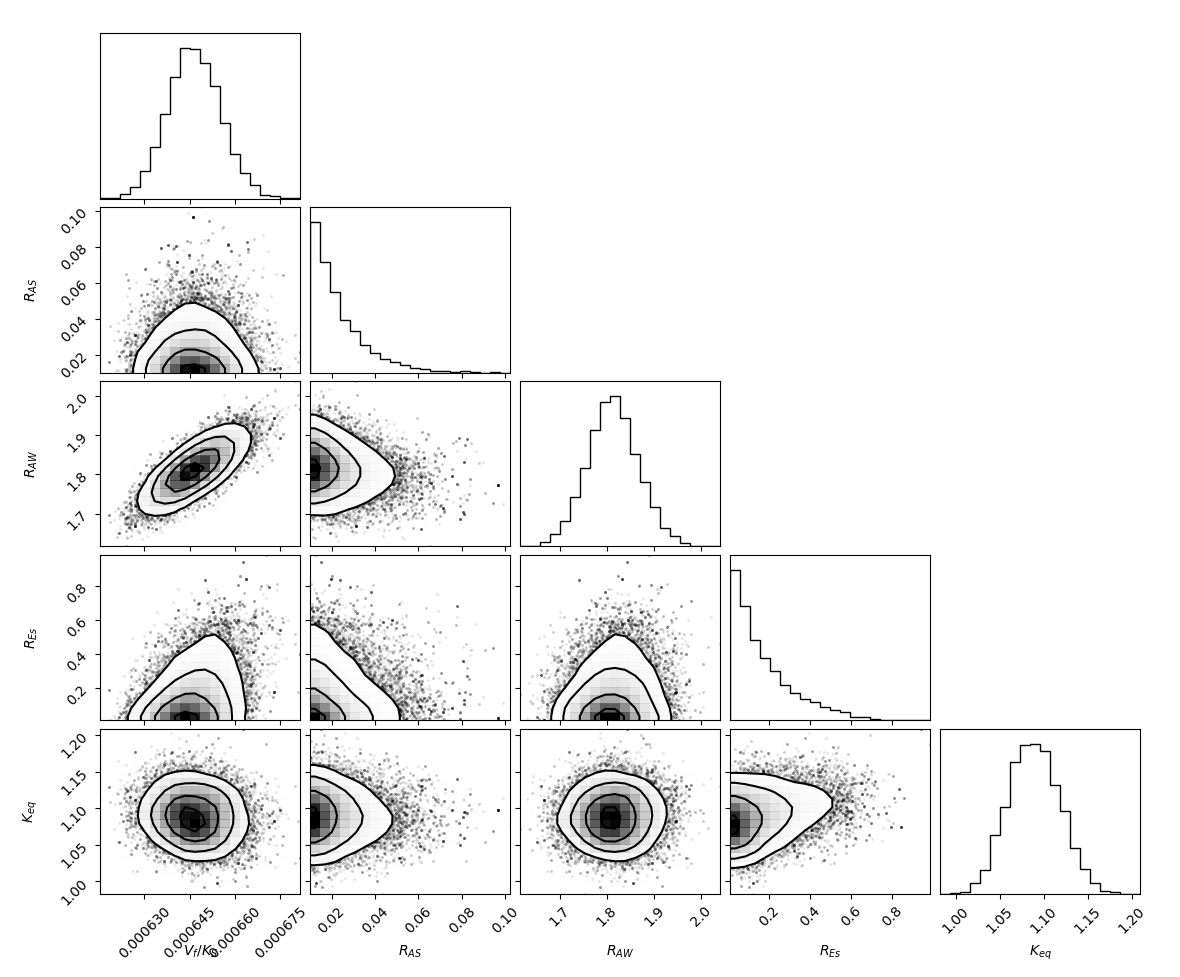
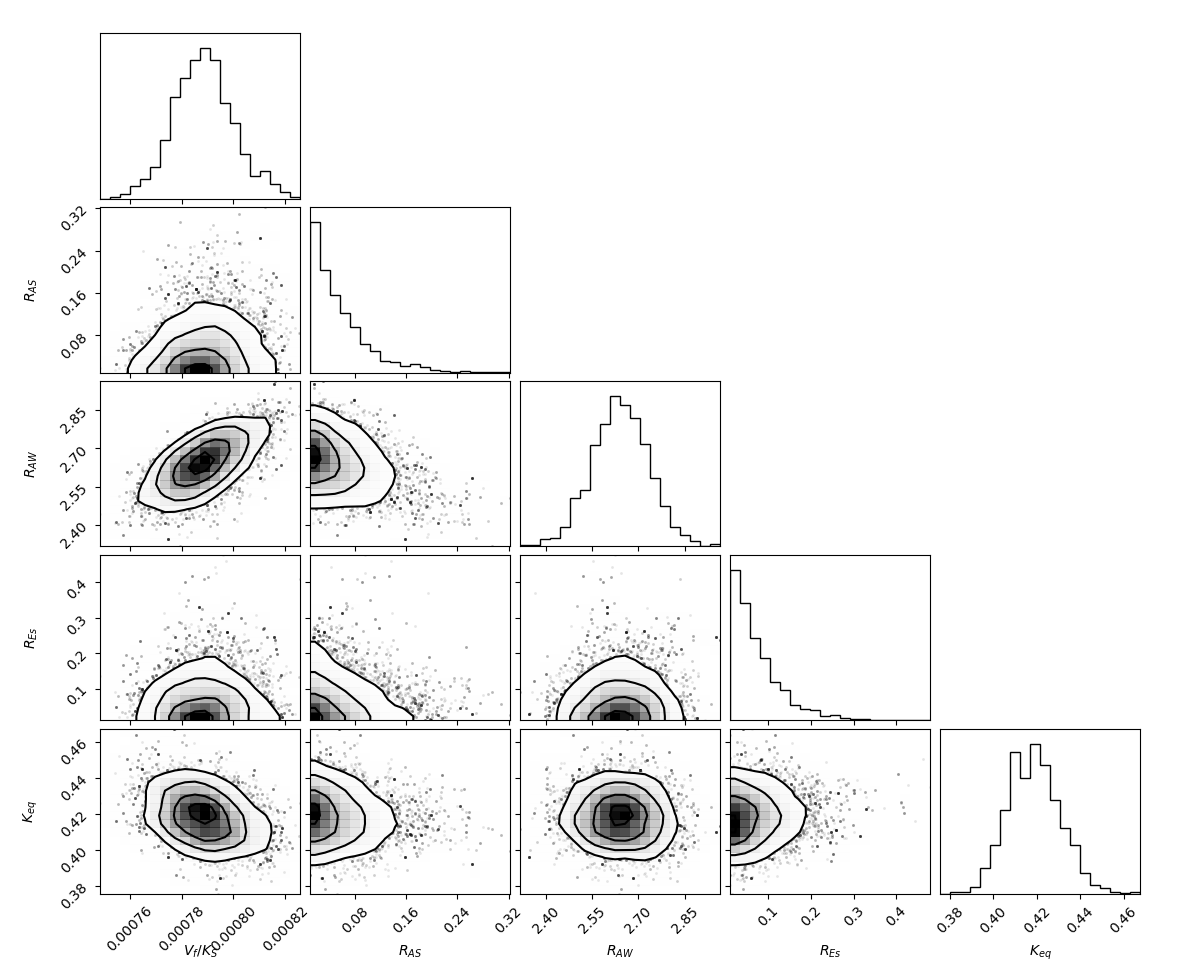
finish calibration of the intrinsic kinetics

diff --git a/tutorials/enzyme_kinetics/calibrate_intrinsic_kinetics.py b/tutorials/enzyme_kinetics/calibrate_intrinsic_kinetics.py
@@ -84,34 +84,52 @@ if __name__ == '__main__':
     # Calibated parameters and bounds
     pars = ['Vf_Ks', 'R_AS', 'R_AW', 'R_Es', 'K_eq']
     labels = ['$V_f/K_S$','$R_{AS}$','$R_{AW}$','$R_{Es}$', '$K_{eq}$']
-    bounds = [(1e-5,1e-2), (1e-2,10), (1e-2,10), (1e-2,10), (1e-2,2)]
+    bounds = [(1e-5,1e-2), (1e-2,1000), (1e-2,1000), (1e-2,1000), (1e-2,2)]
     # Setup objective function (no priors --> uniform priors based on bounds)
     objective_function = log_posterior_probability(model,pars,bounds,data,states,log_likelihood_fnc,log_likelihood_fnc_args,initial_states=initial_states,labels=labels)                               
     # Settings
     processes = int(os.getenv('SLURM_CPUS_ON_NODE', mp.cpu_count()/2))
-    n_pso = 30
-    multiplier_pso = 10   
+    n_pso = 50
+    multiplier_pso = 20
     # PSO
     theta = pso.optimize(objective_function, swarmsize=multiplier_pso*processes, max_iter=n_pso, processes=processes, debug=True)[0]    
     # Nelder-mead
     step = len(theta)*[0.05,]
     theta = nelder_mead.optimize(objective_function, theta, step, processes=processes, max_iter=n_pso)[0]
+    # Loop over datasets
+    for i,df in enumerate(data):
+        model.parameters.update({'Vf_Ks': theta[0], 'R_AS': theta[1], 'R_AW': theta[2], 'R_Es': theta[3], 'K_eq': theta[4]})
+        # Update initial condition
+        model.initial_states.update(initial_states[i])
+        # Simulate model
+        out = model.sim(3000)
+        # Visualize
+        fig,ax=plt.subplots(figsize=(12,4))
+        ax.scatter(df.index, df.values, color='black', alpha=0.6, linestyle='None', facecolors='none', s=60, linewidth=2)
+        ax.plot(out['time'], out['S'], color='black')
+        ax.plot(out['time'], out['Es'], color='red')
+        ax.legend(['data', 'D-glucose', 'Glucose laurate'])
+        ax.grid(False)
+        ax.set_ylabel('species concentration (mM)')
+        ax.set_xlabel('time (min)')
+        plt.tight_layout()
+        plt.show()
+        plt.close()
 
     ##########
     ## MCMC ##
     ##########
 
     # Variables
-    n_mcmc = 200
-    multiplier_mcmc = 18
+    n_mcmc = 500
     print_n = 50
-    discard = 50
+    discard = 100
     samples_path='sampler_output/'
     fig_path='sampler_output/'
     identifier = 'username'
     run_date = str(datetime.date.today())
     # Perturbate previously obtained estimate
-    ndim, nwalkers, pos = perturbate_theta(theta, pert=0.10*np.ones(len(theta)), multiplier=multiplier_mcmc, bounds=bounds)
+    ndim, nwalkers, pos = perturbate_theta(theta, pert=[0.10, 0.10, 0.10, 0.10, 0.10], multiplier=5, bounds=bounds)
     # Write some usefull settings to a .json
     settings={'start_calibration': 0, 'end_calibration': 3000,
               'n_chains': nwalkers, 'starting_estimate': list(theta), 'labels': labels}
@@ -160,7 +178,6 @@ if __name__ == '__main__':
         for i in range(N):
             ax.plot(out['time'], out['S'].isel(draws=i), color='black', alpha=0.03, linewidth=0.2)
             ax.plot(out['time'], out['Es'].isel(draws=i), color='red', alpha=0.03, linewidth=0.2)
-        #ax.errorbar(df.index, df.values, yerr=log_likelihood_fnc_args[i], fmt='x', color='black')
         ax.legend(['data', 'D-glucose', 'Glucose laurate'])
         ax.grid(False)
         ax.set_ylabel('species concentration (mM)')

diff --git a/tutorials/enzyme_kinetics/models.py b/tutorials/enzyme_kinetics/models.py
@@ -60,6 +60,7 @@ class PPBB_model(ODEModel):
     parameter_names = ['c_enzyme', 'Vf_Ks', 'R_AS', 'R_AW', 'R_Es', 'K_eq']
 
     @staticmethod
+    @njit
     def integrate(t, S, A, Es, W, c_enzyme, Vf_Ks, R_AS, R_AW, R_Es, K_eq):
 
         # Calculate rate

diff --git a/docs/enzyme_kinetics.md b/docs/enzyme_kinetics.md
@@ -8,23 +8,23 @@ Sugar fatty acid esters (SFAEs) are nonionic surfactants which play an important
 
 ![reaction](/_static/figs/enzyme_kinetics/reaction.png)
 
-The goal of this tutorial is to demonstrate how pySODM can be used to build a virtual prototype of a continuous flow reactor reactor packed with enzyme beads. First, an enzyme kinetic model is calibrated to time course data obtained in batch experiments. The calibrated kinetics can then be used to make predictions on how the yields in our continuous-flow reactor vary when the flow rate is varied. Further, we can asses what happens to the reaction yields if we set up a two-stage reactor where water is removed between the stages. I will attempt to provide a brief introduction to each of the models used in this tutorial. However, I shall cut several corners for the sake of shortening this demo (my master's thesis is over 60 pages long).
+The goal of this tutorial is to demonstrate how pySODM can be used to build a virtual prototype of a continuous flow reactor reactor packed with enzyme beads. First, an enzyme kinetic model is calibrated to time course data obtained in batch experiments. The calibrated kinetics can then be used to make predictions on how the yields in our continuous-flow reactor vary with the flow rate. Further, we can asses what happens to the reaction yields if we set up a two-stage reactor where water is removed between the stages. I will attempt to provide a brief introduction to each of the models used in this tutorial. However, I shall cut several corners for the sake of shortening this demo (my master's thesis is over 60 pages long).
 
 In this tutorial pySODM is used to:
 1. Build an ODE model to describe the reaction course in a batch experiment.
-2. Calibrate the ODE model to timecourse data from eight experiments. Each experiment has a different intial condition, which must be provided to the log posterior probability function.
-3. Demonstrate how a 1D packed-bed reactor (PDE) can be implemented in pySODM by using the method-of-lines.
+2. Calibrate the ODE model to timecourse data from eight experiments, performed with different initial concentrations of D-Glucose, Lauric acid and water. Each experiment thus has a different intial condition, which must be provided to the log posterior probability function.
+3. Demonstrate how a 1D packed-bed reactor (PDE system) can be implemented in pySODM by using the method-of-lines.
 4. Propagate the posterior distributions of the kinetic parameters through the packed-bed reactor model and asses what happens if we change the flow rate or remove water.
 
 ## Calibration of Intrinsic kinetics (ODE model)
 
-Multiple batch experiments were performed. For each experiment a supersaturated solution of D-glucose and Lauric acid in t-Butanol had to be prepared. First, as much water as possible had to be removed from the t-Butanol by means of molecular sieves. Then, because of its low solubility in t-Butanol, a supersaturated solution of D-glucose had to be prepared by reflux boiling overnight. Next, the Lauric acid was added and the mixture was transferred to a 50 mL flask suspended in an oil bath kept at 50 degrees Celcius. To start the reaction, 10 g/L of beads containing the enzyme were added to the mixture. The mixture was stirred with a magnetic stirrer throughout the reaction to avoid mass transfer limitations during the reaction course. Samples were withdrawn at regular intervals and analyzed for Glucose Laurate Ester using an HPLC-MS.
+Multiple batch experiments were performed. For each experiment a supersaturated solution of D-glucose and Lauric acid in t-Butanol had to be prepared. First, as much water as possible had to be removed from the t-Butanol by means of 0.3 nm molecular sieves. Then, because of its low solubility in t-Butanol, a supersaturated solution of D-glucose was prepared by reflux boiling overnight. The maximum attainable concentration of D-Glucose in t-Butanol at 50 Degrees Celcius is between 40 mM and 45 mM. Next, Lauric acid was added and the mixture was transferred to a 50 mL flask suspended in an oil bath kept at 50 degrees Celcius. To start the reaction, 10 g/L of beads containing the enzyme were added to the mixture. The mixture was stirred with a magnetic stirrer throughout the reaction to avoid mass transfer limitations during the reaction course. Samples were withdrawn at regular intervals and analyzed for Glucose Laurate Ester using an HPLC-MS.
 
 The experiments performed could be subdivided into two types:
 1. Initial rate experiments: The reaction course is only followed during the first minutes when very little product are formed. 
 2. Full time-course experiments. In this experiment, samples are withdrawn every few hours until the reaction mixture equillibrates.
 
-Typically, the parameters of the *forward* reaction are first calibrated to the initial rate experiment data. During my master's thesis, model selection was performed as well using the initial rate experiment data. The parameters of the *backward* reaction were then calibrated to the full time-course experiments. For the sake of brevity, I shall glance over this two-step calibration and model selection. We will simply calibrate the following model,
+Typically, the parameters of the *forward* reaction are first calibrated to the initial rate experiment data. During my master's thesis, model selection was performed as well using the initial rate experiment data. The parameters of the *backward* reaction were then calibrated to the full time-course experiments. For the sake of brevity, I shall glance over this two-step calibration and model selection. We will simply calibrate the following (simplified) ping-pong bi-bi kinetic model,
 ```{math}
 \begin{eqnarray}
 \frac{dS}{dt} &=& - v, \\
@@ -38,7 +38,7 @@ where,
 ```{math}
 \frac{v}{[E]_t} = \frac{{V_f}/{K_S} ([S] [A] - \frac{1}{K_{eq}} [Es][W])}{[A] + R_{AS} [S] + R_{AW} [W] + R_{Es} [Es]}, \Bigg[\frac{mmol}{min . \text{g catalyst}} \Bigg],
 ```
-to data from three initial rate experiments, and five full time-course experiments. In the equation, {math}`[S]` denotes the concentration of D-glucose, {math}`[A]` denotes the concentration of Lauric Acid, {math}`[Es]` denotes the concentration of Glucose Laurate Ester, and {math}`[W]` denotes the concentration of water, all in millimolar (mM). The parameters {math}`R_{AS}`, {math}`R_{AW}` and {math}`R_{Es}` can be interpreted as inhibitory constants due to their appearance in the denominator of the rate equation. {math}`V_f/K_S` is typically treated as one parameter and has an impact on the initial reaction rate. {math}`K_{eq}` is the equillibrium coefficient, which determines if the reaction favor the reactants or the products. 
+to data from three initial rate experiments, and five full time-course experiments. In the equation, {math}`[S]` denotes the concentration of D-glucose, {math}`[A]` denotes the concentration of Lauric Acid, {math}`[Es]` denotes the concentration of Glucose Laurate Ester, and {math}`[W]` denotes the concentration of water, all in millimolar (mM). The parameters {math}`R_{AS}`, {math}`R_{AW}` and {math}`R_{Es}` can be interpreted as inhibitory constants due to their appearance in the denominator of the rate equation. {math}`V_f/K_S` is typically treated as one parameter and has an impact on the initial reaction rate. {math}`K_{eq}` is the equillibrium coefficient, which determines if the reaction favor the reactants or the products.
 
 We'll start by making a file `models.py` in our working directory, where we'll group our models for this tutorial. Coding up the equations above is very similar to the [simple SIR model](workflow.md).
 
@@ -80,7 +80,7 @@ init_states = {'S': 46, 'A': 61, 'W': 37, 'Es': 0}
 model = PPBB_model(init_states,params)
 ```
 
-The next step is loading the experimental data from the `~/tutorials/enzyme_kinetics/data` folder and setting up our log posterior probability function for optimization. The data have the following structure,
+The next step is loading the experimental data from the `~/tutorials/enzyme_kinetics/data` folder and setting up our log posterior probability function for optimization. There are eight files, each containing data from one experiment. The data have the following structure,
 
 ```python
 df = pd.read_csv(os.path.join(os.path.dirname(__file__),'data/exp_1.csv'), index_col=0)
@@ -102,7 +102,9 @@ time
 1440    NaN    NaN    NaN  21.02   0.25
 ```
 
-We'll load the datasets using a `for` statement and immediately extract three [inputs to our log posterior probability function](optimization.md): 1) The Glucose Laurate Ester data in `data`, 2) the measurement error as the arguments of our log likelihood function `log_likelihood_fnc_args` and 3) the initial concentrations used in the experiment in `initial_states`. We will also construct the list of model states to match our datasets to (`states`) and we'll use a Gaussian log likelihood function for every dataset because we have a measurement error for every datapoint. There is thus no need to analyze the mean-variance ratio as we did in the [simple SIR tutorial](workflow.md).
+To perform an optimization of the parameters, a [log posterior probability function](optimization.md) must be setup. We'll load the datasets using a `for` statement and immediately extract three inputs to our log posterior probability function: 1) The Glucose Laurate Ester data as `data`, 2) the measurement error as the arguments of the log likelihood function `log_likelihood_fnc_args` and 3) the initial concentrations used in the experiment in `initial_states`. We will also construct the list of model states to match our datasets to (`states`), which is a list containing eight instances of the Ester state `'Es'`. 
+
+For each measurement of the Glucose Laurate ester concentration an error is available. There is thus no need to analyze the mean-variance ratio as we did in the [simple SIR tutorial](workflow.md) to find an appropriate likelihood function. We'll use a Gaussian likelihood function and use the *sigma* column of our dataset as the arguments of the log likelihood function.
 
 ```python
 from pySODM.optimization.objective_functions import ll_gaussian
@@ -128,7 +130,7 @@ for name in names:
     )
 ```
 
-All we need to to still is define a list containing the five model parameters we'd like to calibrate: {math}`V_f/K_S`, {math}`R_{AS}`, {math}`R_{AW}`,{math}`R_{Es}`, {math}`K_{eq}`, and a list containing an upper and lower bound for every model parameter. We'll use the optional argument `labels` so our MCMC diagnostic figures can use fancy {math}`\LaTeX` labels. Note how we didn't define `weights` to our dataset, so all datasets are weighted equally. We also didn't define prior probability functions for our parameters, this means pySODM will automatically use uniform priors using the provided bounds. For a detailed description of the `log_posterior_probability` function, visit the [Optimization](optimization.md) section in the User Guide.
+All that is left is to define a list containing the five model parameters we'd like to calibrate: {math}`V_f/K_S`, {math}`R_{AS}`, {math}`R_{AW}`,{math}`R_{Es}`, {math}`K_{eq}`, and a list containing an upper and lower bound for every model parameter.  We'll use the optional argument `labels` so our MCMC diagnostic figures can use fancy {math}`\LaTeX` labels. Note how we didn't define `weights` to our dataset, so all datasets are weighted equally. We also didn't define prior probability functions for our parameters, this means pySODM will automatically use uniform priors using the provided bounds.
 
 ```python
 from pySODM.optimization.objective_functions import log_posterior_probability
@@ -166,23 +168,30 @@ if __name__ == '__main__':
 
 We find the following estimates for our parameters:
 ```bash
-theta = [6.46e-04, 1.75e-02, 1.81e+00, 2.27e-01, 1.09e+00]
+theta = [7.95e-04, 1.65e-01, 2.57e+00, 3.49e-01, 4.19e-01]
 ```
 
-Next, we'll use this estimate to initiate our Markov-Chain Monte-Carlo sampler. If anything is unclear in what follows, I highly recommend going through the documentation of `perturbate_theta`, `run_EnsembleSampler` and `emcee_sampler_to_dictionary` available in the [User Guide](optimization.md). We'll initiate `multiplier_mcmc` chains per calibrated parameter, so 25 chains in total. To do so, we'll first use `perturbate_theta` to generate a np.ndarray `pos` of shape `(5, 25)`, which we'll then pass on to `run_EnsembleSampler`.
+Next, we'll use this estimate to initiate our Markov-Chain Monte-Carlo sampler which requires the help of two functions: [perturbate_theta](optimization.md) and [run_EnsembleSampler](optimization.md). We'll initiate 5 chains per calibrated parameter, so 25 chains in total, by. To do so, we'll first use `perturbate_theta` to perturbate our previously obtained estimate `theta` by 25%. The result is a np.ndarray `pos` of shape `(5, 25)`, which we'll then pass on to `run_EnsembleSampler`.
 
 ```python
 if __name__ == '__main__':
 
     from pySODM.optimization.mcmc import perturbate_theta
 
-    # MCMC settings
-    multiplier_mcmc = 5
     # Perturbate previously obtained estimate
-    ndim, nwalkers, pos = perturbate_theta(theta, pert=0.10*np.ones(len(theta)), multiplier=multiplier_mcmc, bounds=bounds)
+    ndim, nwalkers, pos = perturbate_theta(theta, pert=[0.25, 0.25, 0.25, 0.25, 0.25], multiplier=5, bounds=bounds)
 ```
 
-Then, we'll setup and run the sampler until the chains converge. We'll run the sampler for `n_mcmc=500` iterations and print the diagnostic autocorrelation and trace plots every `print_n=20` iterations in a folder called `sampler_output/`. For convenience, we'll save the samples there as well. As an identifier for our "experiment", we'll use `'username'`. While the sampler is running, have a look in the `sampler_output/` folder, which should look as follows,
+Then, we'll setup and run the sampler using `run_EnsembleSampler` until the chains converge. We'll run the sampler for `n_mcmc=500` iterations and print the diagnostic autocorrelation and trace plots every `print_n=20` iterations in a folder called `sampler_output/`. For convenience, we'll save the samples there as well. As an identifier for our "experiment", we'll use `'username'`. While the sampler is running, have a look in the `sampler_output/` folder, which should look as follows,
+
+```
+├── sampler_output 
+|   |── username_BACKEND_2022-12-16.hdf5
+│   ├── autocorrelation
+│       └── username_AUTOCORR_2022-12-16.pdf
+│   └── traceplots
+│       └── username_TRACE_2022-12-16.pdf
+```
 
 ```python
 if __name__ == '__main__':
@@ -196,9 +205,9 @@ if __name__ == '__main__':
     fig_path='sampler_output/'
     identifier = 'username'
 
-    # Write some usefull settings to a pickle file (no pd.Timestamps or np.arrays allowed!)
-    settings={'start_calibration': 0, 'end_calibration': 3000,
-              'n_chains': nwalkers, 'starting_estimate': list(theta), 'labels': labels}
+    # Some usefull settings we'd like to retain (no pd.Timestamps or np.arrays allowed!)
+    settings={'start_calibration': 0, 'end_calibration': 3000, 'n_chains': nwalkers,
+              'starting_estimate': list(theta), 'labels': labels}
 
     # Sample n_mcmc iterations
     sampler = run_EnsembleSampler(pos, n_mcmc, identifier, objective_function,
@@ -206,16 +215,7 @@ if __name__ == '__main__':
                                     settings_dict=settings)
 ```
 
-```
-├── sampler_output 
-|   |── username_BACKEND_2022-12-16.hdf5
-│   ├── autocorrelation
-│       └── username_AUTOCORR_2022-12-16.pdf
-│   └── traceplots
-│       └── username_TRACE_2022-12-16.pdf
-```
-
-The output of the above procedure yields an `emcee.EnsembleSampler` object containing our 100 iterations for 25 chains. We can extract the chains quite easily as follows: `emcee.EnsembleSampler.get_chain()` (see the [emcee documentation](https://emcee.readthedocs.io/en/stable/user/sampler/)). However, we're interested in building a dictionary of samples because this interfaces nicely to pySODM's draw functions. To that end, we can use the builtin method `emcee_sampler_to_dictionary`. We'll then use `corner` to visualize the distributions of the five calibrated parameters.
+The output of the above procedure yields an `emcee.EnsembleSampler` object containing our 500 iterations for 25 chains. We can extract the chains quite by using the `get_chain()` method (see the [emcee documentation](https://emcee.readthedocs.io/en/stable/user/sampler/)). However, we're interested in building a dictionary of samples because this interfaces nicely to pySODM's draw functions. To that end, we can use the builtin method `emcee_sampler_to_dictionary()`. We'll use the `corner` package to visualize the distributions of the five calibrated parameters.
 
 ```python
 if __name__ == '__main__':
@@ -234,11 +234,11 @@ if __name__ == '__main__':
     plt.show()
     plt.close()
 ```
-On the cornerplot we can see that the values of {math}`R_{AS}` are quite small, meaning we can likely drop {math}`R_{AS}` from the model without taking a big hit in terms of goodness-of-fit. {math}`R_{AW}` and {math}`V_f / K_S` correlate quite strongly.
+On the cornerplot we can see that the values of {math}`R_{AS}` and {math}`R_{Es}` are quite small, meaning we can likely drop these parameters from the model without taking a big hit in terms of goodness-of-fit. {math}`R_{AW}` and {math}`V_f / K_S` correlate quite strongly but we can account for this when propagating the uncertainty. The equillibrium of this reaction is clearly unfavourable, indicated by an equillibrium constant of {math}`K_{eq} = 0.42`, so we'll need to find a way to sway the equillibrium. 
 
 ![corner](/_static/figs/enzyme_kinetics/corner.png)
 
-Finally, we can use the *draw functions* to propagate the parameter samples in our model and asses the goodness-of-fit (see the [simple SIR tutorial](workflow.md)). Simulating a model is performed using the `sim` function (see the [simple SIR tutorial](workflow.md) and the [documentation](models.md)). All that is left after simulating the model is to add the observational noise to the model predictions. I've computed the relative magnitude of the error on the datapoints and these are roughly equal to 5%. Given how we've used a Gaussian log likelihood, we'll use `add_gaussian_noise` to add 5% (relative) noise.
+Finally, we can use the *draw functions* to propagate the parameter samples in our model and asses the goodness-of-fit (see the [simple SIR tutorial](workflow.md)). Simulating a model is performed using the [sim](models.md) function. All that is left after simulating the model is to add the observational noise to the model predictions. I've computed the relative magnitude of the error on the datapoints and these are roughly equal to 5%. Given how we've used a Gaussian log likelihood function, we'll use `add_gaussian_noise()` to add 5% (relative) noise.
 
 ```python
 if __name__ == '__main__':
@@ -276,8 +276,11 @@ if __name__ == '__main__':
         plt.close()
 ```
 
-The following figure shows the goodness-of-fit of the model to the time course of a reaction started with 38 mM D-glucose, 464 mM Lauric acid and 24 mM water present in the medium. After 16 hours, the reaction has equillibrated and {math}`34 \pm 2\ mM` (95% CI) of Glucose Laurate ester is formed, meaning the reaction has a yield of {math}`89\% \pm 5\%\ mM` (95% CI). For this enzymatic reaction, higher acid-to-sugar ratios and lower initial water concentrations lead to the highest yields.
+The following figure shows the goodness-of-fit of the model to the time course of a reaction started with 38 mM D-glucose, 464 mM Lauric acid and 24 mM water present in the medium. After 16 hours, the reaction has equillibrated and {math}`30 \pm 2\ mM` (95% CI) of Glucose Laurate ester is formed, meaning the reaction has a yield of {math}`79\% \pm 5\%\ mM` (95% CI). For this enzymatic reaction, higher acid-to-sugar ratios and lower initial water concentrations lead to the highest yields. To conclude, I visualize the yield on a 2D grid spanning the concentrations of D-Glucose and Lauric on the y-axis (given as the acid-to-sugar ratio with 40 mM of D-Glucose present at reaction onset), and the water concentration on the x-axis.
 
 ![fit_3](/_static/figs/enzyme_kinetics/fit_3.png)
+
+![yield](/_static/figs/enzyme_kinetics/yield.png)
+
 
 ## Simulating a Packed-bed reactor (PDE model)
